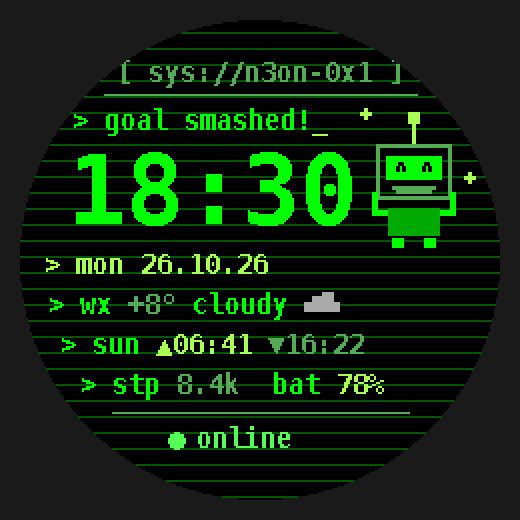
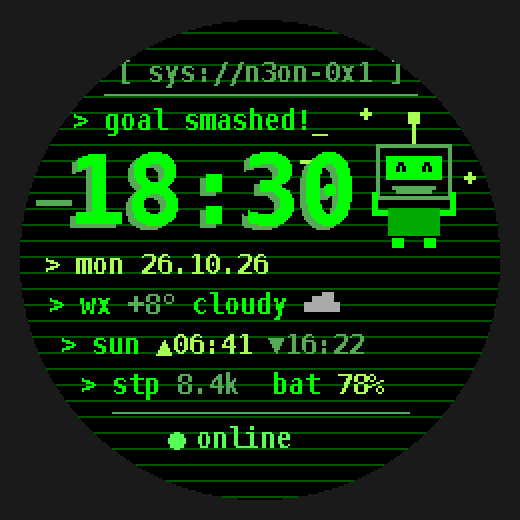
Store screenshots: show the default glitch on every theme except High contrast
Claude-Session: https://claude.ai/code/session_01UPPXaJYamaHbEYryx3rSdp

diff --git a/scripts/preview_n3on.py b/scripts/preview_n3on.py
@@ -226,11 +226,11 @@ if __name__ == "__main__":
         os.makedirs(FRAMES, exist_ok=True)
         shots = [
             ("01-neon-day", PALS[0], "10:08", "normal", "hi there", True),
-            ("02-neon-night", PALS[0], "21:24", "night", "sleep tight", False),
-            ("03-amber", PALS[1], "07:58", "morning", "good morning", False),
-            ("04-green-goal", PALS[2], "18:30", "happy", "goal smashed!", False),
-            ("05-neon-rain", PALS[0], "13:15", "rain", "take umbrella", False),
-            ("06-neon-notify", PALS[0], "09:42", "notify", "3 new msg", False),
+            ("02-neon-night", PALS[0], "21:24", "night", "sleep tight", True),
+            ("03-amber", PALS[1], "07:58", "morning", "good morning", True),
+            ("04-green-goal", PALS[2], "18:30", "happy", "goal smashed!", True),
+            ("05-neon-rain", PALS[0], "13:15", "rain", "take umbrella", True),
+            ("06-neon-notify", PALS[0], "09:42", "notify", "3 new msg", True),
             ("07-high-contrast", PALS[3], "16:05", "normal", "hejka!", False),
         ]
         for name, pal, t, mood, ph, gl in shots:
